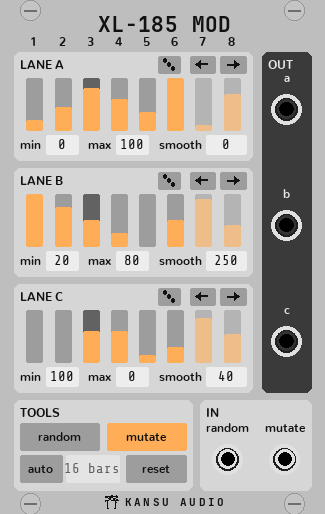
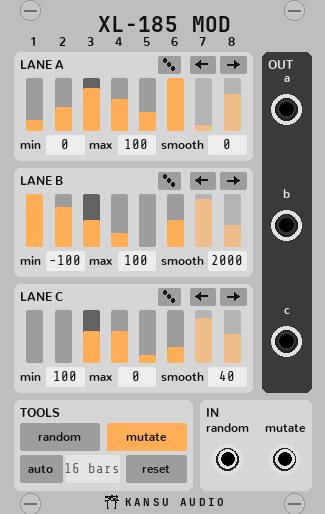
XL-185 MOD: lane Min and Max from -100 to 100, version 2.0.1

diff --git a/src/LayoutMod.hpp b/src/LayoutMod.hpp
@@ -24,16 +24,16 @@ static const lay::Label LABELS[] = {
 	{"7", 50.844f, 10.550f, 11.000f, lay::FONT_LABEL, 0, lay::TONE_TEXT, 0.000f},
 	{"8", 57.881f, 10.550f, 11.000f, lay::FONT_LABEL, 0, lay::TONE_TEXT, 0.000f},
 	{"min", 5.100f, 36.100f, 11.000f, lay::FONT_LABEL, -1, lay::TONE_TEXT, 0.000f},
-	{"max", 22.052f, 36.100f, 11.000f, lay::FONT_LABEL, -1, lay::TONE_TEXT, 0.000f},
-	{"smooth", 39.652f, 36.100f, 11.000f, lay::FONT_LABEL, -1, lay::TONE_TEXT, 0.000f},
+	{"max", 22.352f, 36.100f, 11.000f, lay::FONT_LABEL, -1, lay::TONE_TEXT, 0.000f},
+	{"smooth", 40.252f, 36.100f, 11.000f, lay::FONT_LABEL, -1, lay::TONE_TEXT, 0.000f},
 	{"a", 71.640f, 19.500f, 11.000f, lay::FONT_LABEL, 0, lay::TONE_TEXT_DARK, 0.000f},
 	{"min", 5.100f, 65.100f, 11.000f, lay::FONT_LABEL, -1, lay::TONE_TEXT, 0.000f},
-	{"max", 22.052f, 65.100f, 11.000f, lay::FONT_LABEL, -1, lay::TONE_TEXT, 0.000f},
-	{"smooth", 39.652f, 65.100f, 11.000f, lay::FONT_LABEL, -1, lay::TONE_TEXT, 0.000f},
+	{"max", 22.352f, 65.100f, 11.000f, lay::FONT_LABEL, -1, lay::TONE_TEXT, 0.000f},
+	{"smooth", 40.252f, 65.100f, 11.000f, lay::FONT_LABEL, -1, lay::TONE_TEXT, 0.000f},
 	{"b", 71.640f, 48.500f, 11.000f, lay::FONT_LABEL, 0, lay::TONE_TEXT_DARK, 0.000f},
 	{"min", 5.100f, 94.100f, 11.000f, lay::FONT_LABEL, -1, lay::TONE_TEXT, 0.000f},
-	{"max", 22.052f, 94.100f, 11.000f, lay::FONT_LABEL, -1, lay::TONE_TEXT, 0.000f},
-	{"smooth", 39.652f, 94.100f, 11.000f, lay::FONT_LABEL, -1, lay::TONE_TEXT, 0.000f},
+	{"max", 22.352f, 94.100f, 11.000f, lay::FONT_LABEL, -1, lay::TONE_TEXT, 0.000f},
+	{"smooth", 40.252f, 94.100f, 11.000f, lay::FONT_LABEL, -1, lay::TONE_TEXT, 0.000f},
 	{"c", 71.640f, 77.500f, 11.000f, lay::FONT_LABEL, 0, lay::TONE_TEXT_DARK, 0.000f},
 	{"random", 56.924f, 107.000f, 11.000f, lay::FONT_LABEL, 0, lay::TONE_TEXT, 0.000f},
 	{"mutate", 71.230f, 107.000f, 11.000f, lay::FONT_LABEL, 0, lay::TONE_TEXT, 0.000f},
@@ -49,9 +49,9 @@ static const lay::Box BAR_BOX = {-2.000f, 6.500f, 4.000f, 13.100f};
 static const lay::Box DIE_BOX = {39.600f, 0.900f, 5.400f, 4.400f};
 static const lay::Box SHIFT_LEFT_BOX = {47.400f, 0.900f, 6.400f, 4.400f};
 static const lay::Box SHIFT_RIGHT_BOX = {55.000f, 0.900f, 6.400f, 4.400f};
-static const lay::Box MIN_BOX = {11.487f, 20.800f, 8.000f, 4.600f};
-static const lay::Box MAX_BOX = {29.087f, 20.800f, 8.000f, 4.600f};
-static const lay::Box SMOOTH_BOX = {51.400f, 20.800f, 10.000f, 4.600f};
+static const lay::Box MIN_BOX = {11.487f, 20.800f, 9.400f, 4.600f};
+static const lay::Box MAX_BOX = {29.387f, 20.800f, 9.400f, 4.600f};
+static const lay::Box SMOOTH_BOX = {52.000f, 20.800f, 9.400f, 4.600f};
 const float OUT_X = 71.640f, OUT_DY = 14.300f;	// output jack: centre x, y below the lane top
 
 // Tools and In.

diff --git a/design/layout.py b/design/layout.py
@@ -391,8 +391,8 @@ MBAR_W = 4.0
 MBAR_BOX = (-MBAR_W / 2, LBTN_Y + LBTN_H + CLEAR, MBAR_W, 13.1)	# x relative to the column centre
 MRANGE_Y = MBAR_BOX[1] + MBAR_BOX[3] + CLEAR
 MRANGE_H = 4.6
-# Min, Max, Smooth: label, then its screen, on one row; screens fit "100" and "2000".
-mrange = [('min', 'MIN', 'MIN_PARAMS', 8.0), ('max', 'MAX', 'MAX_PARAMS', 8.0), ('smooth', 'SMOOTH', 'SMOOTH_PARAMS', 10.0)]
+# Min, Max, Smooth: label, then its screen, on one row; screens fit "-100" and "2000".
+mrange = [('min', 'MIN', 'MIN_PARAMS', 9.4), ('max', 'MAX', 'MAX_PARAMS', 9.4), ('smooth', 'SMOOTH', 'SMOOTH_PARAMS', 9.4)]
 mused = sum(text_width(r[0], 'label', LABEL_PX) + CLEAR + r[3] for r in mrange)
 mgap = (MCOL1 - MCOL0 - mused) / 2.0
 MRANGE = {}
@@ -870,7 +870,7 @@ def fires(mode, step):
 # Expander example: the sequencer's Length and playing stage, Auto off to show the dim interval.
 MOD_EXAMPLE = {
 	'value': [[20, 45, 80, 60, 35, 100, 10, 70], [100, 75, 50, 25, 0, 50, 90, 40], [0, 0, 60, 60, 15, 30, 85, 55]],
-	'MIN': [0, 20, 100], 'MAX': [100, 80, 0], 'SMOOTH': [0, 250, 40], 'every': 2, 'auto': 0,
+	'MIN': [0, -100, 100], 'MAX': [100, 100, 0], 'SMOOTH': [0, 2000, 40], 'every': 2, 'auto': 0,
 }
 
 def render_preview(path, th, pn):

diff --git a/src/XL185Mod.cpp b/src/XL185Mod.cpp
@@ -100,8 +100,8 @@ struct XL185Mod : Module {
 			std::string s = std::string("Lane ") + LANE_NAMES[l];
 			for (int i = 0; i < 8; i++)
 				configParam(VALUE_PARAMS + l * 8 + i, 0.f, 100.f, 0.f, s + " stage " + std::to_string(i + 1), " %")->snapEnabled = true;
-			configParam(MIN_PARAMS + l, 0.f, 100.f, 0.f, s + " minimum", " %")->snapEnabled = true;
-			configParam(MAX_PARAMS + l, 0.f, 100.f, 100.f, s + " maximum", " %")->snapEnabled = true;
+			configParam(MIN_PARAMS + l, -100.f, 100.f, 0.f, s + " minimum", " %")->snapEnabled = true;
+			configParam(MAX_PARAMS + l, -100.f, 100.f, 100.f, s + " maximum", " %")->snapEnabled = true;
 			configParam(SMOOTH_PARAMS + l, 0.f, 2000.f, 0.f, s + " smooth (ramp time)", " ms")->snapEnabled = true;
 			configButton(DIE_PARAMS + l, s + " die (random values)");
 			configButton(SHIFT_LEFT_PARAMS + l, s + " shift values left");

diff --git a/tests/test_player.cpp b/tests/test_player.cpp
@@ -496,6 +496,13 @@ static void testLaneOut() {
 	CHECK_NEAR(LaneOut::target(25.f, 100.f, 0.f), 7.5, 1e-6);	// Min above Max turns over
 	CHECK_NEAR(LaneOut::target(0.f, 100.f, 0.f), 10.0, 1e-6);
 	CHECK_NEAR(LaneOut::target(100.f, 100.f, 0.f), 0.0, 1e-6);
+	// Min and Max run -100..100: lanes below zero and across it.
+	CHECK_NEAR(LaneOut::target(0.f, -100.f, 100.f), -10.0, 1e-6);
+	CHECK_NEAR(LaneOut::target(50.f, -100.f, 100.f), 0.0, 1e-6);
+	CHECK_NEAR(LaneOut::target(100.f, -100.f, 100.f), 10.0, 1e-6);
+	CHECK_NEAR(LaneOut::target(25.f, -50.f, 50.f), -2.5, 1e-6);
+	CHECK_NEAR(LaneOut::target(100.f, -100.f, -20.f), -2.0, 1e-6);
+	CHECK_NEAR(LaneOut::target(0.f, 100.f, -100.f), 10.0, 1e-6);	// turned over across zero
 	// The same formula as the engine's lane values.
 	{
 		Pattern p;

diff --git a/core/LaneOut.hpp b/core/LaneOut.hpp
@@ -23,7 +23,7 @@ struct LaneOut {
 	}
 
 	// The lane formula of the engine (XL_SEMANTICS 4) in volts: 10 V x (Min + value x (Max - Min)),
-	// all three in percent. Min above Max turns the lane over.
+	// value 0..100 %, Min and Max -100..100 %, so -10..+10 V. Min above Max turns the lane over.
 	static float target(float value, float min, float max) {
 		return 10.f * (min + value / 100.f * (max - min)) / 100.f;
 	}

diff --git a/design/LAYOUT.md b/design/LAYOUT.md
@@ -177,7 +177,7 @@ sequencer's columns.
 |-----|---|---------|------|
 | Title row | 0.9..5.3 | lane title ("LANE A") at the left; die 5.4 x 4.4 at x 39.6, shift left and right 6.4 x 4.4 at x 47.4 and 55.0 | area title, momentary buttons with glyphs |
 | Values | 6.5..19.6 | eight values 0..100 %, one bar 4.0 x 13.1 per stage | vertical bars as on the sequencer; the playing stage's track is drawn in the mid tone; bars beyond the sequencer's Length are dimmed |
-| Range row | 20.8..25.4 | "min" + screen 8.0 at x 11.5, "max" + screen 8.0 at x 29.1, "smooth" + screen 10.0 at x 51.4 | number screens, drag (full range over 200 px); values without units, the tooltip has them |
+| Range row | 20.8..25.4 | "min" + screen 9.4 at x 11.5, "max" + screen 9.4 at x 29.4, "smooth" + screen 9.4 at x 52.0; Min and Max run -100..100, so the screens fit "-100" | number screens, drag (full range over 200 px); values without units, the tooltip has them |
 
 Bars are 13.1 tall instead of about 15: the 27 mm lane holds the title row, the bars and the range
 row with 1.2 clear between them.

diff --git a/docs/MANUAL.md b/docs/MANUAL.md
@@ -123,6 +123,8 @@ Place it directly to the right of XL-185. It has three lanes, A, B and C, each w
 
 - At every stage start, rests, stages that are off and random picks included, each lane moves to that
   stage's value: output = 10 V x (Min + value x (Max - Min)). Min above Max turns the lane upside down.
+- **Min** and **Max**: -100 to 100 %, which is -10 to +10 V. Min -50 and Max 50 give a lane from -5 to
+  +5 V with 0 V at a half-height bar.
 - **Smooth**: 0 to 2000 ms, a straight ramp to the new value; 0 jumps.
 - The screens show bare numbers: Min and Max are in %, Smooth in ms.
 - **Random** (all three lanes) and each lane's **die**: new values on every unlocked stage.
